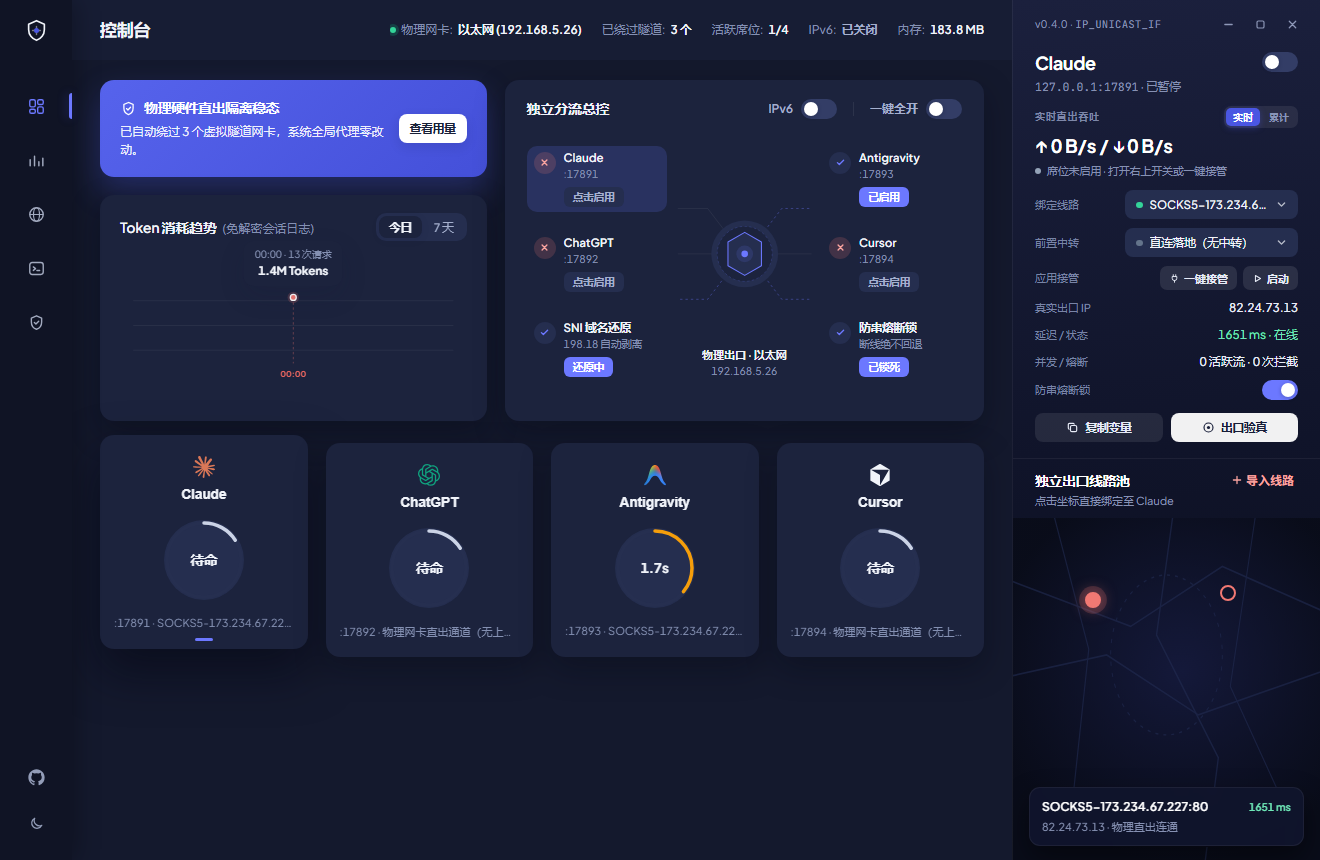
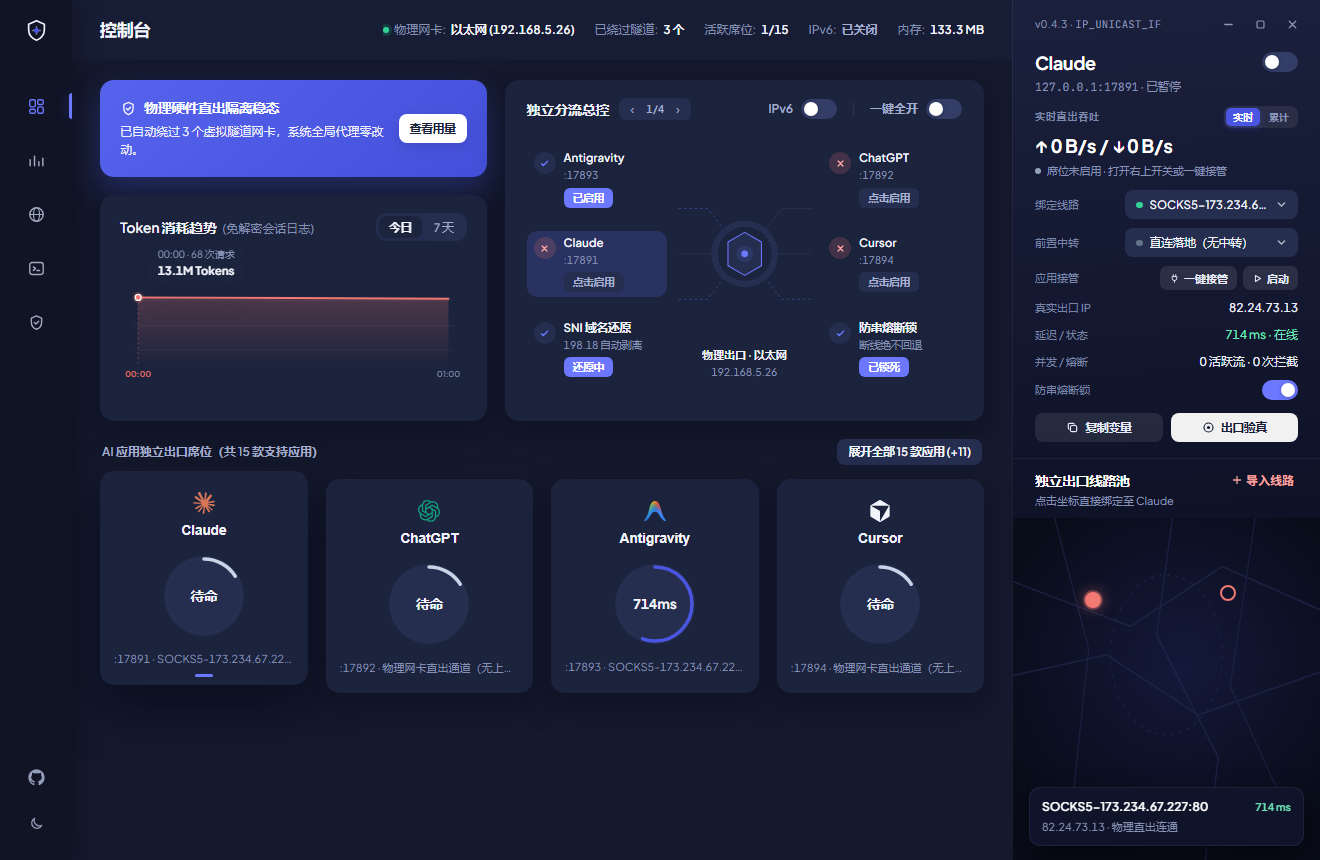
docs(readme): redesign supported apps matrix for clean GitHub rendering & refresh v0.4.3 screenshots

diff --git a/README.md b/README.md
@@ -175,16 +175,29 @@ flowchart LR
 
 ---
 
-## 🎯 默认席位与一键接管矩阵
+## 🎯 支持应用与无损接管矩阵
 
-| AI 席位 | 本地混合端口 | 支持协议 | 一键无损接管机制 | 备份与还原策略 |
-| :--- | :---: | :--- | :--- | :--- |
-| **Claude** *(Code / Desktop)* | `127.0.0.1:17891` | HTTP / SOCKS5 / SOCKS4 | 原地合并 `~/.claude/settings.json` 的 `env.HTTP(S)_PROXY` 与 `NO_PROXY` | 保留全部 Token/模型配置，点击「还原默认」精准复原 |
-| **ChatGPT / Codex** | `127.0.0.1:17892` | HTTP / SOCKS5 / SOCKS4 | 生成专属隔离启动脚本 + 一键拉起已注入代理环境的独立终端 | 一键清理托管脚本，零改动系统环境变量 |
-| **Antigravity** *(IDE / Agent)* | `127.0.0.1:17893` | HTTP / SOCKS5 / SOCKS4 | 兼容自愈汉化启动器与独立启动脚本，内置 **150ms 端口探活守卫** | 网关关闭时自动跳过代理直连；一键剥离托管块还原 |
-| **Cursor** *(AI 代码编辑器)* | `127.0.0.1:17894` | HTTP / SOCKS5 / SOCKS4 | 安全解析带注释的 `User/settings.json`，热写入 `http.proxy` | 保留字体/插件等全部用户配置，一键恢复原值 |
-| **Claude Desktop** *(桌面路由)* | `127.0.0.1:17895` | HTTP / SOCKS5 / SOCKS4 | 自动探测 `Claude.exe` / `Claude.app` 注入 `--proxy-server` 与代理环境变量 | 生成专属桌面路由启动器，一键清理还原 |
-| **10 款扩展 CLI / Agent** *(Gemini CLI · Grok Build · OpenCode · OpenClaw · Hermes · Pi · MiniMax Code · Kimi Code · DeepSeek Harness · Oh My Pi)* | `127.0.0.1:17896 ~ 17905` | HTTP / SOCKS5 / SOCKS4 | 自动按应用生成隔离启动脚本与预注入代理环境的独立终端，支持实时进程检测与总控翻页 | 零改动系统全局代理，一键清除托管启动脚本 |
+> 所有席位均原生监听**单端口多协议混合入站**（同时兼容 `HTTP / SOCKS5 / SOCKS4`），写入配置前自动备份原文件，随时一键无损还原。
+
+### 核心桌面与深度配置接管（5 款）
+
+| 应用 | 默认端口 | 无损接管与还原方式 |
+| :--- | :---: | :--- |
+| **Claude Code** | `:17891` | 原地合并 `~/.claude/settings.json` 中的代理环境变量，保留全部 Token 与模型配置，一键精准还原 |
+| **ChatGPT / Codex** | `:17892` | 生成专属隔离启动脚本，一键拉起已注入独立出口的受控终端，零改动系统环境变量 |
+| **Antigravity** | `:17893` | 兼容自愈启动器并内置 **150ms 端口探活守卫**（网关关闭时自动直连不断网），一键剥离还原 |
+| **Cursor** | `:17894` | 安全解析带注释的 `User/settings.json` 热写入 `http.proxy`，保留全部字体与插件配置 |
+| **Claude Desktop** | `:17895` | 自动探测本机 `Claude.exe` / `Claude.app` 注入 `--proxy-server` 桌面路由参数，支持一键清理 |
+
+### 扩展 CLI / Agent 支持矩阵（10 款，一键隔离启动器）
+
+| 应用 | 默认端口 | 启动命令 | 应用 | 默认端口 | 启动命令 |
+| :--- | :---: | :---: | :--- | :---: | :---: |
+| **Gemini CLI** | `:17896` | `gemini` | **Pi** | `:17901` | `pi` |
+| **Grok Build** | `:17897` | `grok` | **MiniMax Code** | `:17902` | `minimax` |
+| **OpenCode** | `:17898` | `opencode` | **Kimi Code** | `:17903` | `kimi` |
+| **OpenClaw** | `:17899` | `openclaw` | **DeepSeek Harness** | `:17904` | `deepseek` |
+| **Hermes** | `:17900` | `hermes` | **Oh My Pi** | `:17905` | `omp` |
 
 > [!TIP]
 > **接管后何时生效？**
